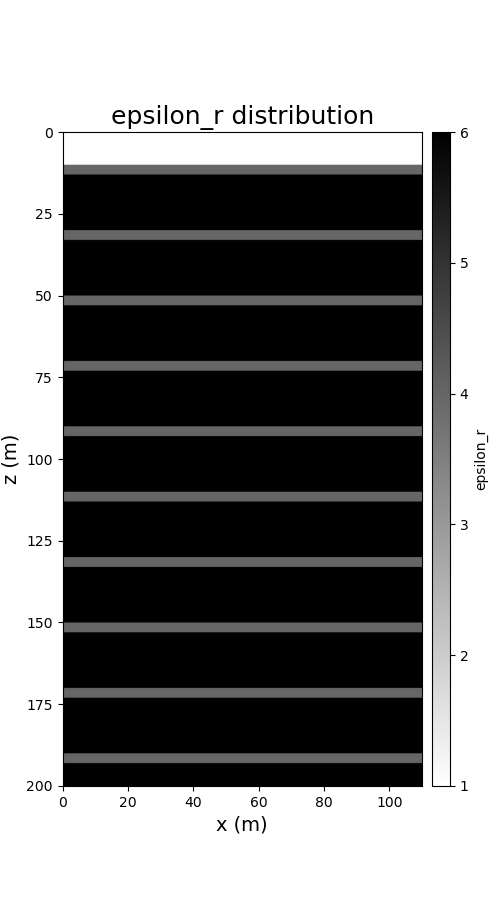
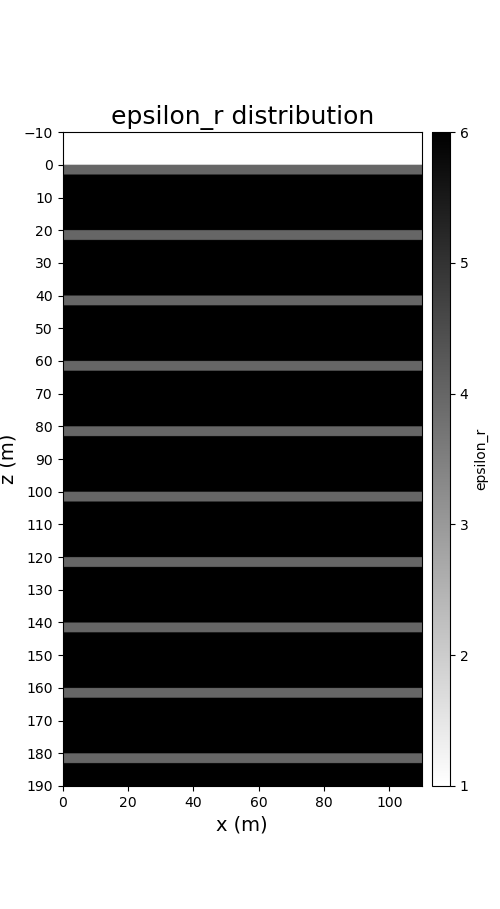
modify get_epsilon_map

diff --git a/tools/get_epsilon_map.py b/tools/get_epsilon_map.py
@@ -88,14 +88,18 @@ spatial_grid =  0.05 # spatial grid size [m]
 fig = plt.figure(figsize=(5, 5*map.epsilon_map.shape[0]/map.epsilon_map.shape[1]))
 ax = fig.add_subplot(111)
 
+vacuum_thickness = params['domain_z'] - params['ground_depth']
 plt.imshow(map.epsilon_map,
-        extent=[0, map.epsilon_map.shape[1] * spatial_grid, map.epsilon_map.shape[0] * spatial_grid, 0],
+        extent=[0, map.epsilon_map.shape[1] * spatial_grid,
+                map.epsilon_map.shape[0] * spatial_grid - vacuum_thickness, -vacuum_thickness],
         cmap='binary')
 
 if args.closeup:
     y_start = 9
     y_end = 40
     ax.set_ylim(y_end, y_start)
+
+ax.set_yticks(np.arange(-vacuum_thickness, map.epsilon_map.shape[0] * spatial_grid - vacuum_thickness + 1, 10))
 
 plt.xlabel('x (m)', size=14)
 plt.ylabel('z (m)', size=14)
